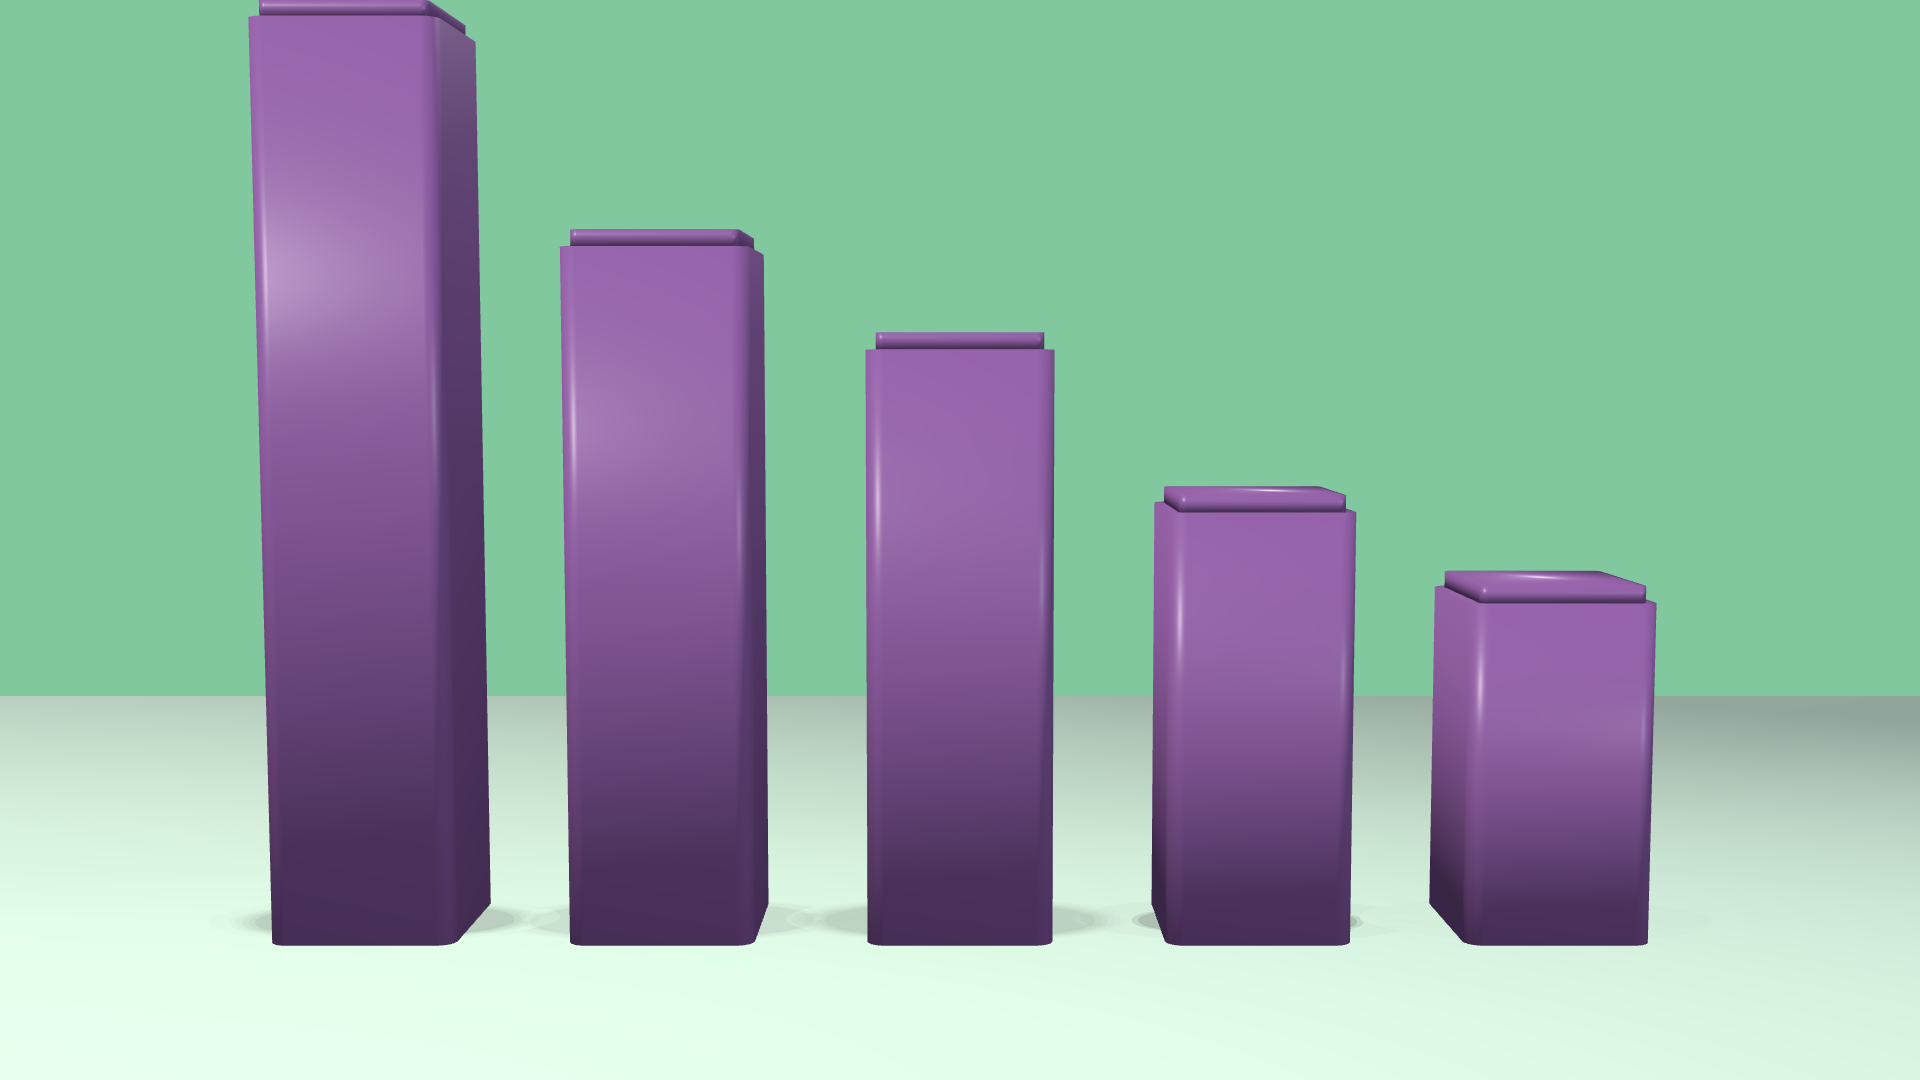
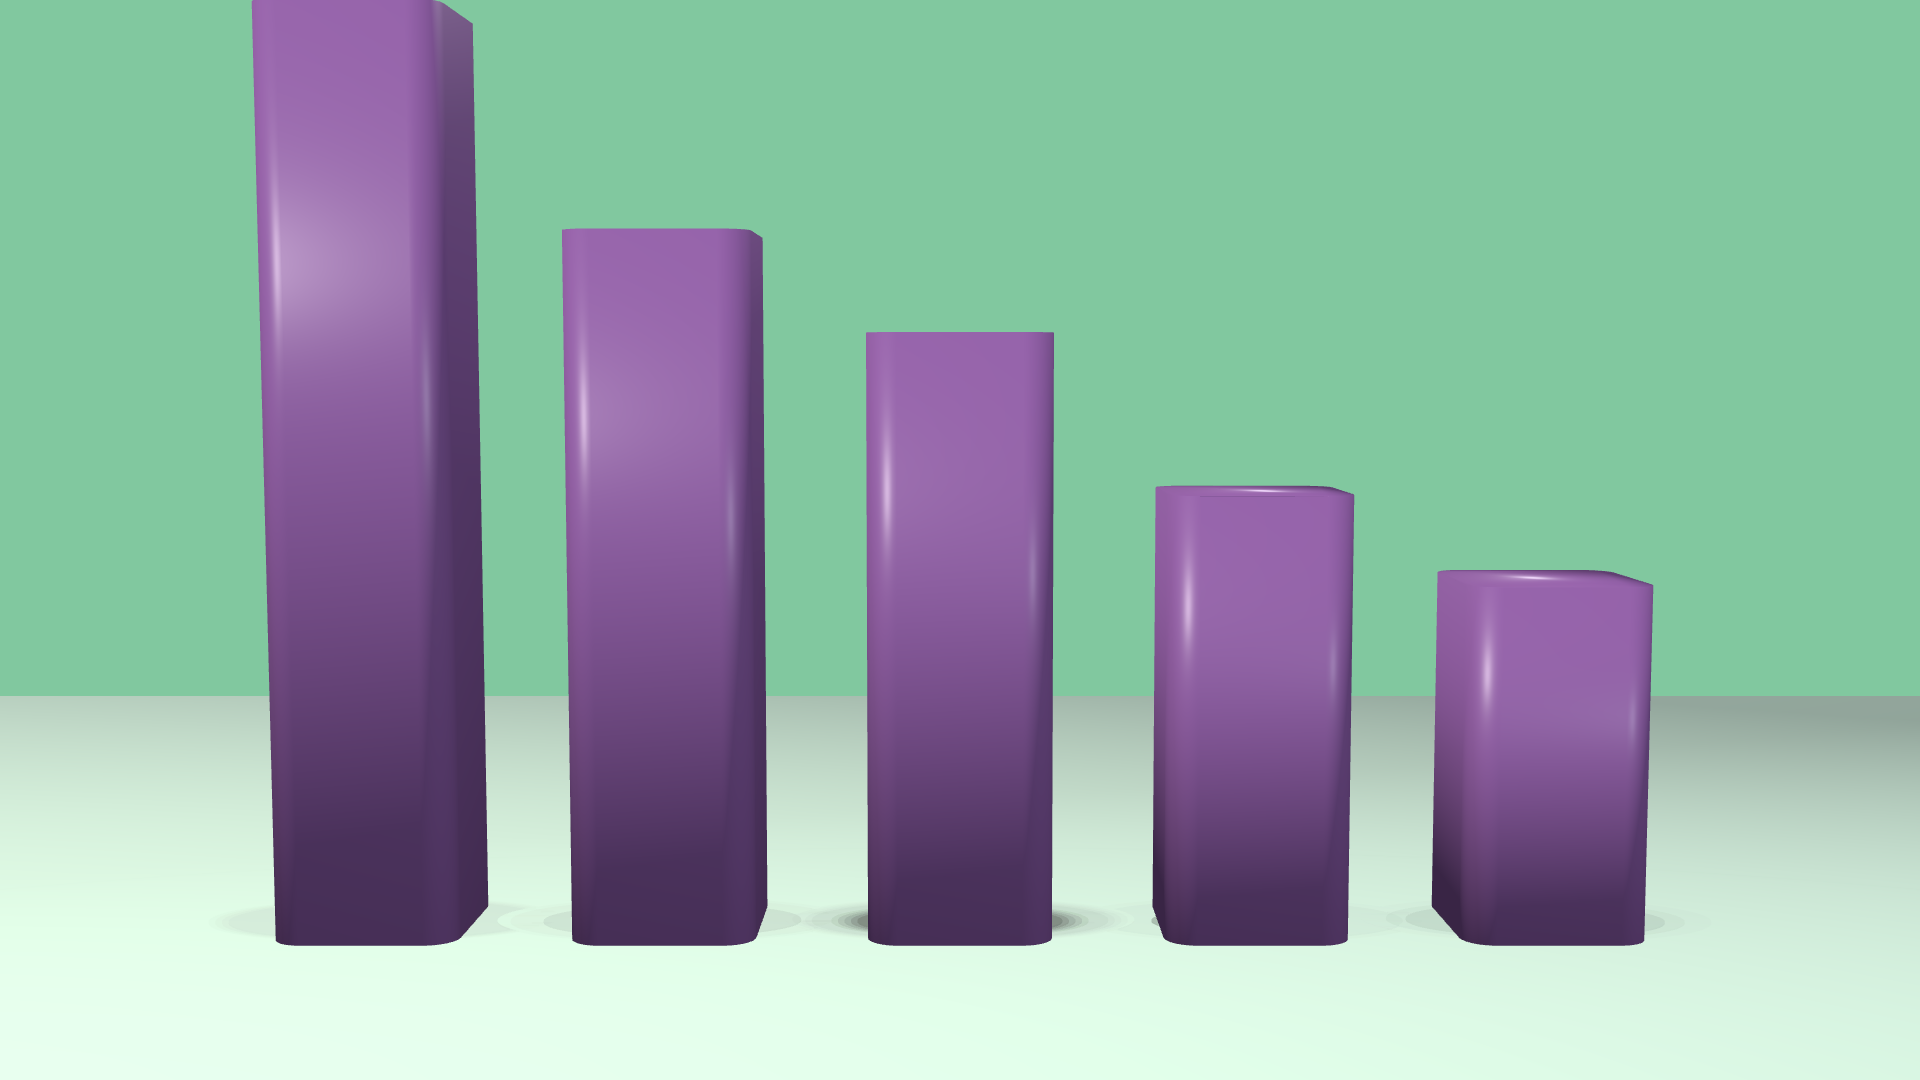
Simplify rounded-box bar and stand 3D donut upright
Two fixes based on review feedback.

1. Rounded-box bar - the previous inset top cap stuck up like a
   smaller block, producing a wedding-cake silhouette. Removed the
   cap entirely and increased corner_r to 0.14 so the extrusion is
   a clean rounded rectangular column with vertical edges softened
   and a flat top. make_rounded_box_bar() now takes only
   height/width/depth/corner_r.

2. 3D donut - was rotated flat on the floor, so it read as an
   object sitting on a table rather than a donut chart. The ring
   now stands upright (90deg around X), positioned at
   donut_center_y above the floor. Camera pulled back to a mostly
   front-facing angle with a subtle downward tilt, preserving the
   PBR tube highlights. Ground shadow is a narrow horizontal
   ellipse under the ring instead of a disc around it.

https://claude.ai/code/session_01ABERqQvQCk2K72zuEPEbhP

diff --git a/scripts/render_clay_3d.py b/scripts/render_clay_3d.py
@@ -106,27 +106,12 @@ def make_rounded_box_bar(
     width: float,
     depth: float,
     corner_r: float,
-    top_bevel: float = 0.08,
 ) -> trimesh.Trimesh:
-    """Rounded-rectangle extrusion with a subtle top bevel for soft upper edges."""
-    bevel = min(top_bevel, height * 0.3, corner_r * 0.95)
-    body_h = max(1e-3, height - bevel)
+    """Rounded-rectangle extrusion: vertical edges rounded, flat top and bottom."""
     body_poly = _rounded_rect_polygon(width, depth, corner_r)
-    body = trimesh.creation.extrude_polygon(body_poly, height=body_h)
-    body.apply_transform(trimesh.transformations.rotation_matrix(-np.pi / 2, [1, 0, 0]))
-
-    cap_poly = _rounded_rect_polygon(
-        width - 2 * bevel * 0.6,
-        depth - 2 * bevel * 0.6,
-        max(0.0, corner_r - bevel * 0.6),
-    )
-    cap = trimesh.creation.extrude_polygon(cap_poly, height=bevel)
-    cap.apply_transform(trimesh.transformations.rotation_matrix(-np.pi / 2, [1, 0, 0]))
-    cap.apply_translation([0.0, body_h, 0.0])
-
-    combined = trimesh.util.concatenate([body, cap])
-    combined.process(validate=False)
-    return combined
+    mesh = trimesh.creation.extrude_polygon(body_poly, height=height)
+    mesh.apply_transform(trimesh.transformations.rotation_matrix(-np.pi / 2, [1, 0, 0]))
+    return mesh
 
 
 def make_soft_shadow_disks(
@@ -269,8 +254,7 @@ def build_bar_scene(shape: str) -> pyrender.Scene:
                 height=body_height,
                 width=bar_width,
                 depth=bar_width,
-                corner_r=0.08,
-                top_bevel=0.08,
+                corner_r=0.14,
             )
         bar.apply_translation([cx, 0.0, 0.0])
         scene.add(pyrender.Mesh.from_trimesh(bar, material=bar_material, smooth=True))
@@ -286,11 +270,14 @@ def build_donut_scene() -> pyrender.Scene:
     scene = pyrender.Scene(bg_color=BG_COLOR, ambient_light=[0.14, 0.14, 0.16])
     _add_common_scene(scene)
 
-    major_r = 2.6
-    tube_r = 0.72
+    major_r = 2.2
+    tube_r = 0.62
     total = sum(rec["value"] for rec in DONUT_RECORDS)
     start = -math.pi / 2
     gap = math.radians(2.0)
+
+    donut_center_y = major_r + tube_r + 0.15
+    stand_up = trimesh.transformations.rotation_matrix(np.pi / 2, [1, 0, 0])
 
     for rec in DONUT_RECORDS:
         sweep = rec["value"] / total * 2.0 * math.pi
@@ -303,7 +290,8 @@ def build_donut_scene() -> pyrender.Scene:
             tube_sections=48,
             arc_sections=max(8, int(48 * sweep / (2.0 * math.pi))),
         )
-        slice_mesh.apply_translation([0.0, tube_r + 0.02, 0.0])
+        slice_mesh.apply_transform(stand_up)
+        slice_mesh.apply_translation([0.0, donut_center_y, 0.0])
         color_linear = srgb_to_linear([*rec["color"], 1.0])
         mat = pyrender.MetallicRoughnessMaterial(
             baseColorFactor=color_linear,
@@ -313,18 +301,18 @@ def build_donut_scene() -> pyrender.Scene:
         scene.add(pyrender.Mesh.from_trimesh(slice_mesh, material=mat, smooth=True))
         start = end
 
-    shadow_layers = 16
+    shadow_layers = 14
     for i in range(shadow_layers):
         t = i / max(1, shadow_layers - 1)
-        scale = 1.0 + 0.25 * t
-        radius = (major_r + tube_r) * scale
-        alpha = 0.30 * math.exp(-3.0 * t)
+        scale = 1.0 + 0.35 * t
+        rx = (major_r + tube_r * 0.6) * scale
+        alpha = 0.32 * math.exp(-3.0 * t)
         if alpha < 0.012:
             continue
-        disk = trimesh.creation.cylinder(radius=radius, height=0.008, sections=96)
+        disk = trimesh.creation.cylinder(radius=rx, height=0.008, sections=96)
         disk.apply_transform(trimesh.transformations.rotation_matrix(np.pi / 2, [1, 0, 0]))
         disk.apply_translation([0.0, 0.003 + i * 0.0009, 0.0])
-        disk.apply_scale([1.0, 1.0, 0.42])
+        disk.apply_scale([1.0, 1.0, 0.22])
         mat = pyrender.MetallicRoughnessMaterial(
             baseColorFactor=[0.02, 0.018, 0.015, alpha],
             metallicFactor=0.0,
@@ -333,9 +321,9 @@ def build_donut_scene() -> pyrender.Scene:
         )
         scene.add(pyrender.Mesh.from_trimesh(disk, material=mat, smooth=False))
 
-    camera = pyrender.PerspectiveCamera(yfov=np.radians(26.0), aspectRatio=WIDTH / HEIGHT)
-    eye = np.array([0.0, 5.2, 8.4])
-    target = np.array([0.0, 0.3, 0.0])
+    camera = pyrender.PerspectiveCamera(yfov=np.radians(22.0), aspectRatio=WIDTH / HEIGHT)
+    eye = np.array([0.0, donut_center_y + 0.6, 9.5])
+    target = np.array([0.0, donut_center_y - 0.2, 0.0])
     scene.add(camera, pose=look_at(eye, target, np.array([0.0, 1.0, 0.0])))
     return scene
 
